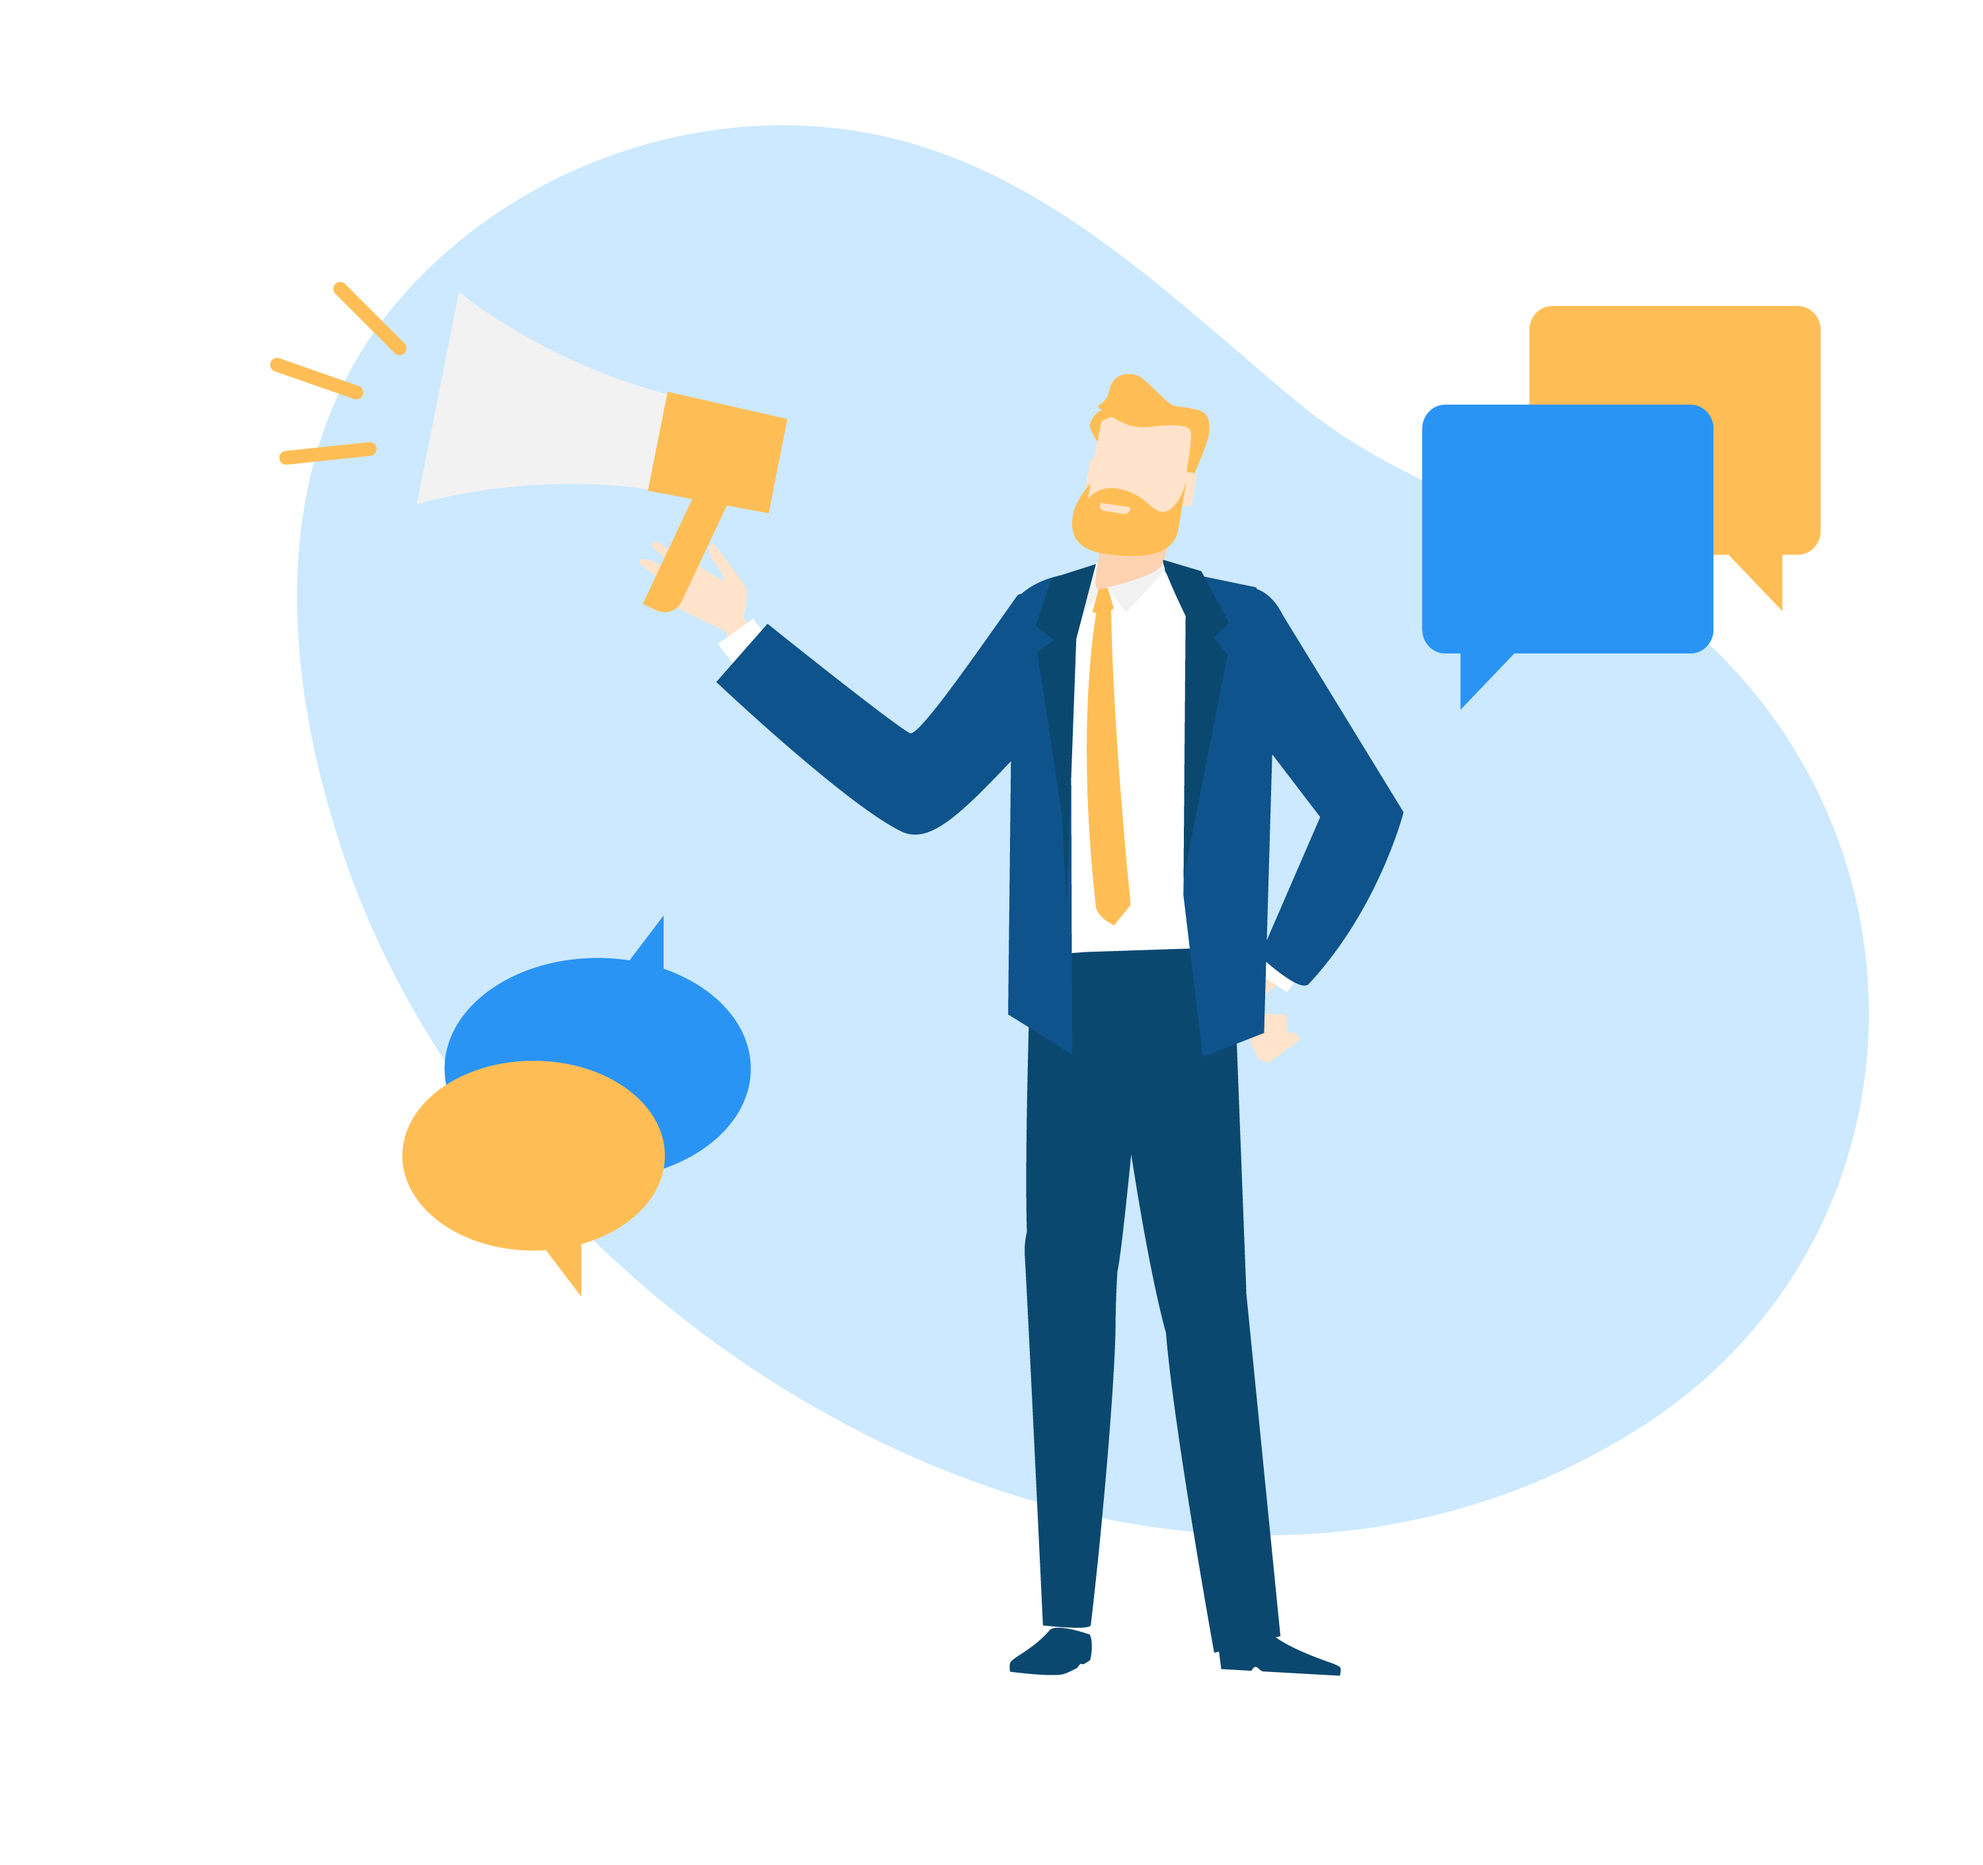
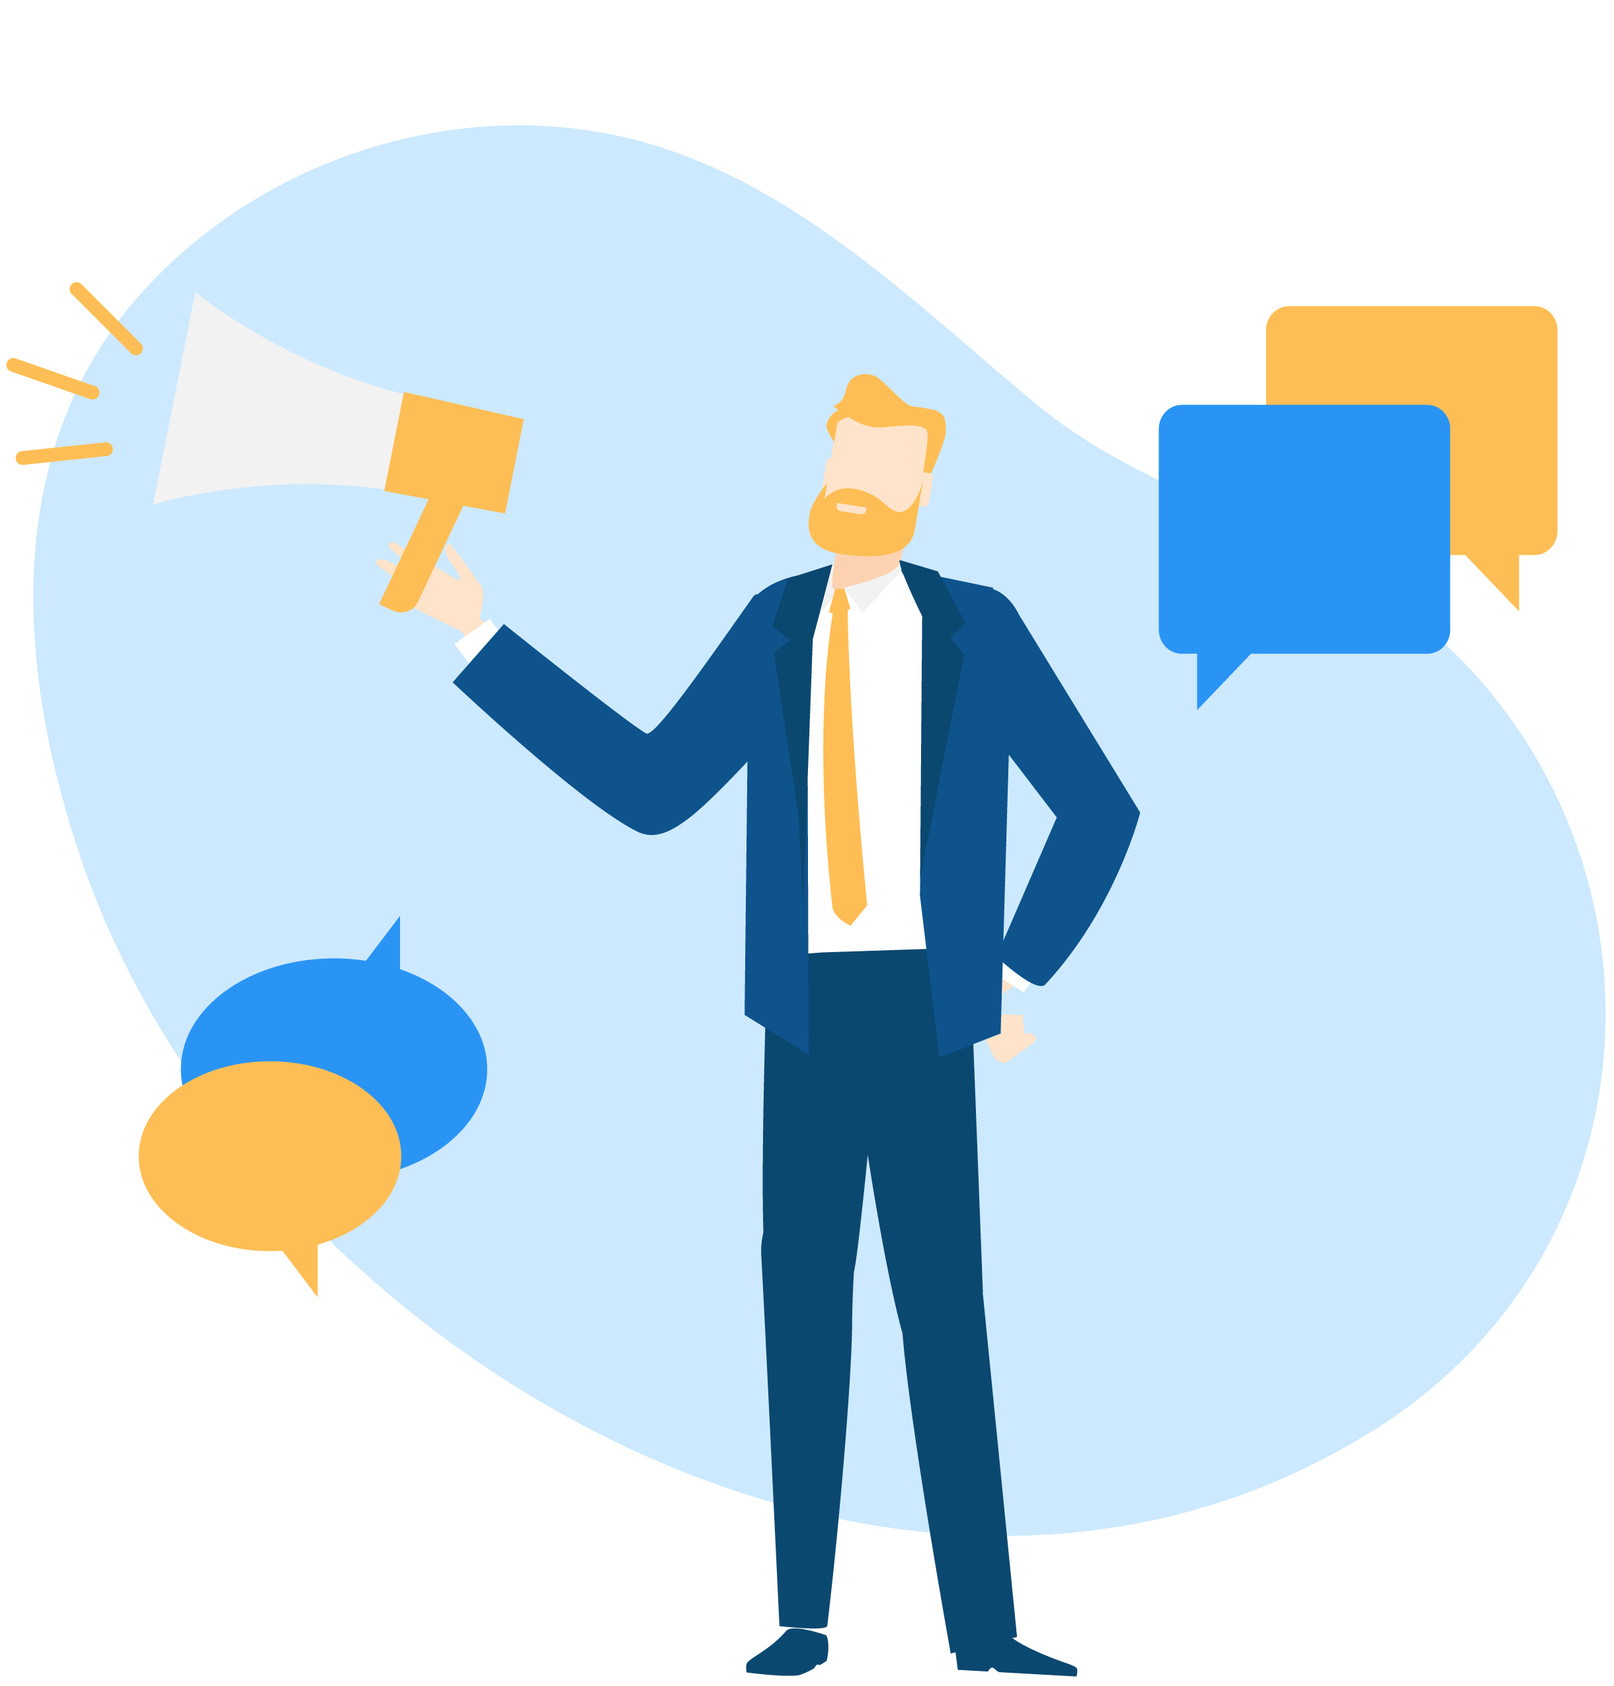
changed size pic

diff --git a/index.html b/index.html
@@ -44,8 +44,8 @@
 		
 	
 		<div class="row">
-    <div class="col-1">
-      <img src="img/homepageColor.png" alt="homepage image">
+    <div class="col">
+      <img src="img/homepageColor.png" alt="homepage image" id="homepageImg">
     </div>
 		</div>	
 		
